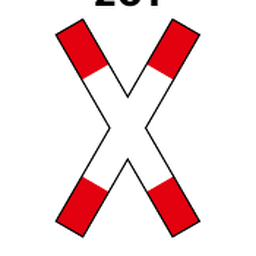
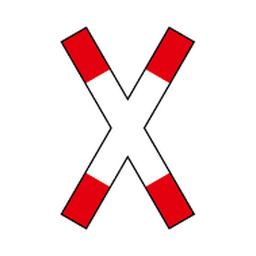
schidler

Changed region(s): [[0.2188, 0.0625, 0.7812, 0.9375], [0.375, 0.0, 0.625, 0.0312]]

diff --git a/src/SignClassification.py b/src/SignClassification.py
@@ -1,4 +1,6 @@
 import numpy as np
+
+from imageprocessing.MorphologischesOpening import morphologisch_opening
 from masks import template_data as td
 from scipy.ndimage import binary_fill_holes
 from imageprocessing import Scaling
@@ -32,6 +34,29 @@ def calculate_iou(mask, template):
     union = np.logical_or(mask, template).sum()
 
     return intersection / union if union > 0 else 0.0
+
+
+def print_template_matrix_preview(template, title, preview_size=16):
+    template = np.asarray(template, dtype=np.uint8)
+    height, width = template.shape
+    block_height = height // preview_size
+    block_width = width // preview_size
+
+    print(f"\nTemplate-Matrix: {title}")
+    print(f"Originalgroesse: {height}x{width}, gesetzte Pixel: {int(template.sum())}")
+    print(f"Preview {preview_size}x{preview_size}: 1 = Template-Pixel, 0 = Hintergrund")
+
+    for row in range(preview_size):
+        values = []
+        for col in range(preview_size):
+            block = template[
+                row * block_height:(row + 1) * block_height,
+                col * block_width:(col + 1) * block_width
+            ]
+            values.append("1" if block.mean() >= 0.25 else "0")
+        print(" ".join(values))
+    print()
+
 
 def choose_shape(scores, color, corners):
     adjusted_scores = scores.copy()
@@ -154,15 +179,18 @@ def classify_sign(sign_candidate, color):
 
 
 def get_inner_Label(normalized_symbol):
-    labels = sequential_region_labeling(normalized_symbol)
+    labels = morphologisch_opening(normalized_symbol,iter_num=1)
+    labels = sequential_region_labeling(labels)
     plt.imshow(labels, cmap="nipy_spectral",)
     plt.title(f"labels for inner symbol")
     plt.show()
-    inner_label = labels.copy()
-    inner_label[inner_label <= 2] = 0
 
-    """if np.any(inner_label > 0):
-        return inner_label"""
+
+    # inner_label = labels.copy()
+    # inner_label[inner_label <= 2] = 0
+
+    if np.any(labels > 0):
+        return labels
 
     # Fall 2: Inneres Symbol wurde nicht als eigenes Label erkannt
     inverted_outer = (labels != 2).astype(np.uint8)
@@ -201,6 +229,7 @@ def classify_inner_label(inner_label, outer_type):
 
     best_name = "Unbekanntes Schild"
     best_score = 0.0
+    best_template = None
 
     for template, sign_name in templates:
         template_normalized = Scaling.normalize_image(template, 128)
@@ -215,5 +244,13 @@ def classify_inner_label(inner_label, outer_type):
         if score > best_score:
             best_score = score
             best_name = sign_name
+            best_template = template_normalized
+
+    if best_template is not None:
+        print_template_matrix_preview(best_template, best_name)
+        plt.imshow(best_template, cmap="gray", vmin=0, vmax=1)
+        plt.title(f"Bestes normalisiertes Template: {best_name}")
+        plt.axis("off")
+        plt.show()
 
     return best_name, best_score

diff --git a/src/masks/vorschriftzeichen_manifest.py b/src/masks/vorschriftzeichen_manifest.py
@@ -11,10 +11,8 @@ def template_path(code):
 
 
 # code, name, outer_type, image_path
-# Grundlage: ADAC-Broschuere "Verkehrszeichen in Deutschland", Abschnitt
-# Vorschriftzeichen. Rechteckige/sonstige Zeichen sind im Manifest enthalten,
-# werden vom aktuellen Outer-Shape-Klassifikator aber nur geladen, wenn ihr
-# spaeter passende outer_type-Regeln ergaenzt.
+# Nur Templates eintragen, die im aktiven Template-Ordner vorhanden und
+# als Einzelbild brauchbar sind. Entfernte/kaputte Templates liegen im Backup.
 VORSCHRIFTZEICHEN_TEMPLATES = [
     ("201", "Andreaskreuz, dem Schienenverkehr Vorrang gewaehren", "cross", template_path("201")),
     ("205", "Vorfahrt gewaehren", "triangle", template_path("205")),
@@ -35,23 +33,6 @@ VORSCHRIFTZEICHEN_TEMPLATES = [
     ("230", "Ladebereich", "rectangle", template_path("230")),
     ("237", "Radweg", "circle", template_path("237")),
     ("238", "Reitweg", "circle", template_path("238")),
-    ("239", "Gehweg", "circle", template_path("239")),
-    ("240", "Gemeinsamer Geh- und Radweg", "circle", template_path("240")),
-    ("241", "Getrennter Rad- und Gehweg", "circle", template_path("241")),
-    ("242.1", "Beginn einer Fussgaengerzone", "rectangle", template_path("242.1")),
-    ("242.2", "Ende einer Fussgaengerzone", "rectangle", template_path("242.2")),
-    ("244.1", "Beginn einer Fahrradstrasse", "rectangle", template_path("244.1")),
-    ("244.2", "Ende einer Fahrradstrasse", "rectangle", template_path("244.2")),
-    ("244.3", "Beginn einer Fahrradzone", "rectangle", template_path("244.3")),
-    ("244.4", "Ende einer Fahrradzone", "rectangle", template_path("244.4")),
-    ("245", "Bussonderfahrstreifen", "circle", template_path("245")),
-    ("250", "Verbot fuer Fahrzeuge aller Art", "circle", template_path("250")),
-    ("251", "Verbot fuer Kraftwagen und sonstige mehrspurige Kraftfahrzeuge", "circle", template_path("251")),
-    ("253", "Verbot fuer Kraftfahrzeuge ueber 3,5 t", "circle", template_path("253")),
-    ("254", "Verbot fuer Radverkehr", "circle", template_path("254")),
-    ("255", "Verbot fuer Kraftraeder", "circle", template_path("255")),
-    ("257-50", "Verbot fuer Mofas", "circle", template_path("257-50")),
-    ("257-51", "Verbot fuer Reiter", "circle", template_path("257-51")),
     ("259", "Verbot fuer Fussgaenger", "circle", template_path("259")),
     ("260", "Verbot fuer Kraftfahrzeuge", "circle", template_path("260")),
     ("261", "Verbot fuer kennzeichnungspflichtige Kraftfahrzeuge mit gefaehrlichen Guetern", "circle", template_path("261")),
@@ -60,28 +41,6 @@ VORSCHRIFTZEICHEN_TEMPLATES = [
     ("264", "Verbot fuer Fahrzeuge ueber angegebener tatsaechlicher Breite", "circle", template_path("264")),
     ("265", "Verbot fuer Fahrzeuge ueber angegebener tatsaechlicher Hoehe", "circle", template_path("265")),
     ("266", "Verbot fuer Fahrzeuge ueber angegebener tatsaechlicher Laenge", "circle", template_path("266")),
-    ("267", "Verbot der Einfahrt", "circle", template_path("267")),
-    ("268", "Schneeketten vorgeschrieben", "circle", template_path("268")),
-    ("269", "Verbot fuer Fahrzeuge mit wassergefaehrdender Ladung", "circle", template_path("269")),
-    ("270.1", "Beginn einer Verkehrsverbotszone zur Verminderung schaedlicher Luftverunreinigungen", "rectangle", template_path("270.1")),
-    ("270.2", "Ende einer Verkehrsverbotszone zur Verminderung schaedlicher Luftverunreinigungen", "rectangle", template_path("270.2")),
-    ("272", "Verbot des Wendens", "circle", template_path("272")),
-    ("273", "Verbot des Unterschreitens des angegebenen Mindestabstands", "circle", template_path("273")),
-    ("274", "Zulaessige Hoechstgeschwindigkeit", "circle", template_path("274")),
-    ("274.1", "Beginn einer Tempo-30-Zone", "rectangle", template_path("274.1")),
-    ("274.2", "Ende einer Tempo-30-Zone", "rectangle", template_path("274.2")),
-    ("275", "Vorgeschriebene Mindestgeschwindigkeit", "circle", template_path("275")),
-    ("276", "Ueberholverbot fuer Kraftfahrzeuge aller Art", "circle", template_path("276")),
-    ("277", "Ueberholverbot fuer Kraftfahrzeuge ueber 3,5 t", "circle", template_path("277")),
-    ("277.1", "Verbot des Ueberholens von einspurigen Fahrzeugen", "circle", template_path("277.1")),
-    ("278", "Ende der zulaessigen Hoechstgeschwindigkeit", "circle", template_path("278")),
-    ("279", "Ende der vorgeschriebenen Mindestgeschwindigkeit", "circle", template_path("279")),
     ("280", "Ende des Ueberholverbots fuer Kraftfahrzeuge aller Art", "circle", template_path("280")),
     ("281", "Ende des Ueberholverbots fuer Kraftfahrzeuge ueber 3,5 t", "circle", template_path("281")),
-    ("281.1", "Ende des Verbots des Ueberholens von einspurigen Fahrzeugen", "circle", template_path("281.1")),
-    ("282", "Ende saemtlicher streckenbezogener Geschwindigkeitsbeschraenkungen und Ueberholverbote", "circle", template_path("282")),
-    ("283", "Absolutes Haltverbot", "circle", template_path("283")),
-    ("286", "Eingeschraenktes Haltverbot", "circle", template_path("286")),
-    ("290.1", "Beginn eines eingeschraenkten Haltverbots fuer eine Zone", "rectangle", template_path("290.1")),
-    ("290.2", "Ende eines eingeschraenkten Haltverbots fuer eine Zone", "rectangle", template_path("290.2")),
 ]

diff --git a/src/main.py b/src/main.py
@@ -9,6 +9,13 @@ from imageprocessing.RGBtoHSV import rgb_to_hsv
 from imageprocessing.Scaling import normalize_image
 from masks.colour_masks import get_color_mask, get_sign_position_mask
 
+
+def plot_image(axis, image, title, cmap="gray", vmin=None, vmax=None):
+    axis.imshow(image, cmap=cmap, vmin=vmin, vmax=vmax)
+    axis.set_title(title)
+    axis.axis("off")
+
+
 def score_candidate(candidate):
     area = candidate.sum()
 
@@ -190,25 +197,20 @@ def detect_candidate_color(hsv_image, sign_candidate):
 
 
 def main():
-    image = io.imread("../resources/360_F_320560928_MRmpfCxAONdCzgbgtM5PnUy9qmkKfKYs.jpg")
+    image = io.imread("resources/caravaning.info-verkehrschild_canva_ki.jpg")
     hsv_image = rgb_to_hsv(image)
 
     position_mask = get_sign_position_mask(hsv_image)
-    clean_mask = morphologisch_opening(position_mask)
+    clean_mask = morphologisch_opening(position_mask,3)
     labels = sequential_region_labeling(clean_mask)
 
     fig, axes = plt.subplots(1, 3, figsize=(14, 4))
-    axes[0].imshow(position_mask, cmap="gray", vmin=0, vmax=1)
-    axes[0].set_title("Saettigungsmaske vor Opening")
-    axes[0].axis("off")
-
-    axes[1].imshow(clean_mask, cmap="gray", vmin=0, vmax=1)
-    axes[1].set_title("Saettigungsmaske nach Opening")
-    axes[1].axis("off")
-
-    axes[2].imshow(labels, cmap="nipy_spectral")
-    axes[2].set_title("Region Labeling")
-    axes[2].axis("off")
+    axes = axes.ravel()
+    plot_image(axes[0], position_mask, "Saettigungsmaske vor Opening", vmin=0, vmax=1)
+    plot_image(axes[1], clean_mask, "Saettigungsmaske nach Opening", vmin=0, vmax=1)
+    plot_image(axes[2], labels, "Region Labeling", cmap="nipy_spectral")
+    plt.tight_layout()
+    plt.show()
 
     best_candidate = select_best_sign_candidate(labels)
     best_color = detect_candidate_color(hsv_image, best_candidate)

diff --git a/src/imageprocessing/MorphologischesOpening.py b/src/imageprocessing/MorphologischesOpening.py
@@ -6,9 +6,13 @@ filter = np.array([
     [1, 1, 1],
     [1, 1, 1]
 ], dtype=np.uint8)
-iter_num = 3
-
-def dilate(in_image):
+'''filter = np.array([
+    [0, 1, 0],
+    [1, 1, 1],
+    [0, 1, 0]
+], dtype=np.uint8)
+'''
+def dilate(in_image,iter_num):
     image = np.asarray(in_image, dtype=float)
     struct_filter = np.asarray(filter, dtype=float)
     out_image = image.copy()
@@ -42,7 +46,7 @@ def dilate(in_image):
     return out_image
 
 
-def erode(in_image):
+def erode(in_image,iter_num):
     image = np.asarray(in_image, dtype=float)
     struct_filter = np.asarray(filter, dtype=float)
     out_image = image.copy()
@@ -75,8 +79,8 @@ def erode(in_image):
 
     return out_image
 
-def morphologisch_opening(in_image):
-    image = erode(in_image)
-    return dilate(image)
+def morphologisch_opening(in_image, iter_num):
+    image = erode(in_image, iter_num)
+    return dilate(image,iter_num)
 
 

diff --git a/src/imageprocessing/CornerDetection.py b/src/imageprocessing/CornerDetection.py
@@ -88,12 +88,12 @@ def maximum_filter(image, size):
 
 def dilate_binary(mask):
     gray_mask = np.where(mask, 0.0, -1000.0)
-    return dilate(gray_mask) > -500.0
+    return dilate(gray_mask, 3) > -500.0
 
 
 def erode_binary(mask):
     gray_mask = mask.astype(float)
-    eroded = erode(gray_mask)
+    eroded = erode(gray_mask, 3)
     return eroded > -2.5
 
 